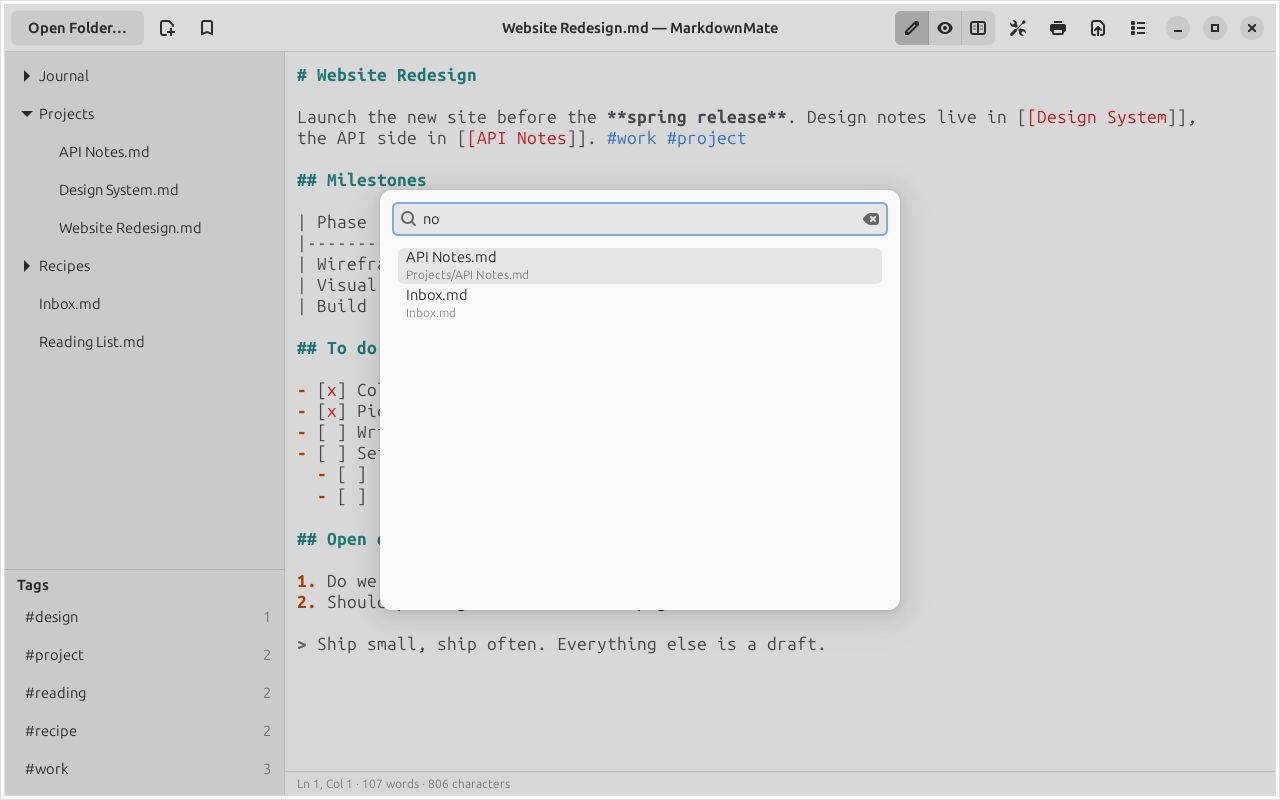
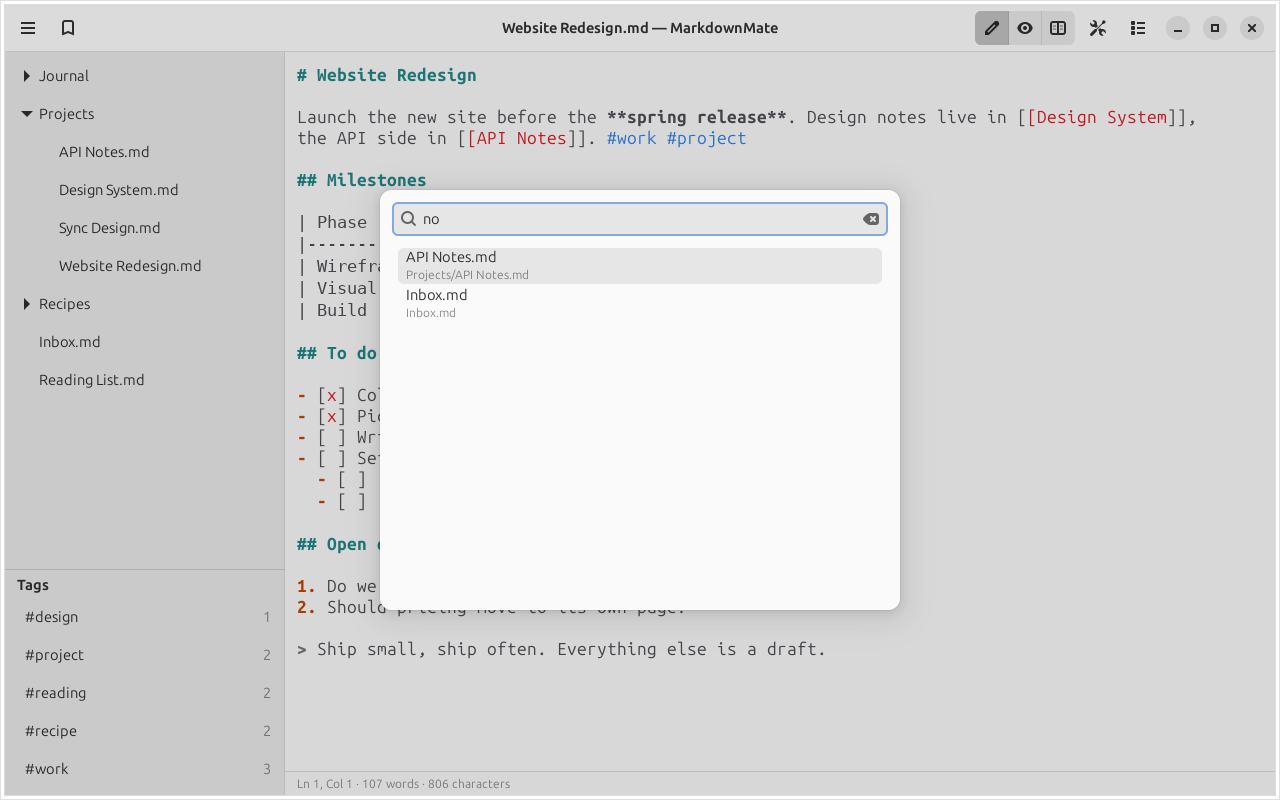
docs(screenshots): retake them with math, diagrams and the format bar
The sample notes now include a Mermaid sequence diagram and a formula
(side by side, light and dark), the editor shot shows the format bar,
and a new preview shot has a flowchart and display math. Names, sizes
and the metainfo URLs stay as they were.

diff --git a/README.md b/README.md
@@ -15,11 +15,15 @@ The Linux sibling of [MarkdownMate for macOS](https://github.com/homielab/markdo
 > **Status:** early development. The feature list below is the target, matched against the macOS app.
 
 <p align="center">
-  <img src="docs/screenshots/2-side-by-side.png" alt="Editor and preview side by side, with highlighted code and a table" width="800" />
+  <img src="docs/screenshots/2-side-by-side.png" alt="Editor and preview side by side, with a Mermaid diagram, a KaTeX formula and highlighted code" width="800" />
 </p>
 <p align="center">
-  <img src="docs/screenshots/1-editor.png" alt="Note folder in the sidebar and the Markdown editor" width="400" />
+  <img src="docs/screenshots/1-editor.png" alt="Note folder in the sidebar, the format bar and the Markdown editor with a table" width="400" />
   <img src="docs/screenshots/6-dark.png" alt="Dark style" width="400" />
+</p>
+
+<p align="center">
+  <img src="docs/screenshots/8-math-diagrams.png" alt="Preview of a note with a Mermaid flowchart and KaTeX math" width="800" />
 </p>
 
 More in [`docs/screenshots/`](docs/screenshots/) (regenerate with `./dev.sh packaging/make-screenshots.sh`).

diff --git a/CHANGELOG.md b/CHANGELOG.md
@@ -6,6 +6,7 @@ the upstream changelog; keep `packaging/com.homielab.MarkdownMate.metainfo.xml`
 
 ## Unreleased
 
+- New screenshots showing KaTeX math, Mermaid diagrams and the format bar.
 - Today's Note (Ctrl+D, or the main menu): opens today's `YYYY-MM-DD.md` in the open folder's `Daily` folder, creating it as `# YYYY-MM-DD` with the cursor at the end when it doesn't exist yet. The folder is set in Preferences ▸ Notes (empty = the open folder itself).
 - Faster preview while typing in large notes: only the blocks you changed are rendered and replaced on the page, instead of the whole note, so formulas, diagrams and the scroll position stay put. Notes with footnotes or reference links, and edits to front matter, still refresh the whole page.
 - Copy as Rich Text (main menu): copies the selection or the whole note so it pastes formatted into LibreOffice, Thunderbird and web mail (headings, bold, lists, links, tables, the note's images) and as plain text elsewhere. Copy as HTML is in the main menu too.

diff --git a/docs/STORE.md b/docs/STORE.md
@@ -19,7 +19,7 @@ Giữ đồng bộ với `packaging/com.homielab.MarkdownMate.metainfo.xml` (App
 Kích thước Launchpad lấy từ mã nguồn Launchpad (`lib/lp/registry/interfaces/person.py`, form `+branding`): icon đúng 14×14 ≤ 5 KB, logo đúng 64×64 ≤ 50 KB, brand đúng 192×192 ≤ 100 KB.
 **Lưu ý:** PPA không có ảnh riêng — branding thuộc về chủ PPA `~homielab` (người dùng, đã có logo + mugshot HomieLab) và hiện trên mọi PPA của HomieLab, kể cả clean-my-ubuntu. Đề nghị giữ ảnh HomieLab; ảnh `launchpad-*` chỉ dùng nếu sau này tạo team riêng cho MarkdownMate.
 
-Ảnh chụp màn hình: `docs/screenshots/1-editor.png` … `7-themes.png` (`./dev.sh packaging/make-screenshots.sh`).
+Ảnh chụp màn hình: `docs/screenshots/1-editor.png` … `8-math-diagrams.png` (8 chưa có trong metainfo: thêm khi website đã có ảnh) (`./dev.sh packaging/make-screenshots.sh`).
 
 ## Launchpad PPA (`ppa:homielab/markdownmate`)
 
